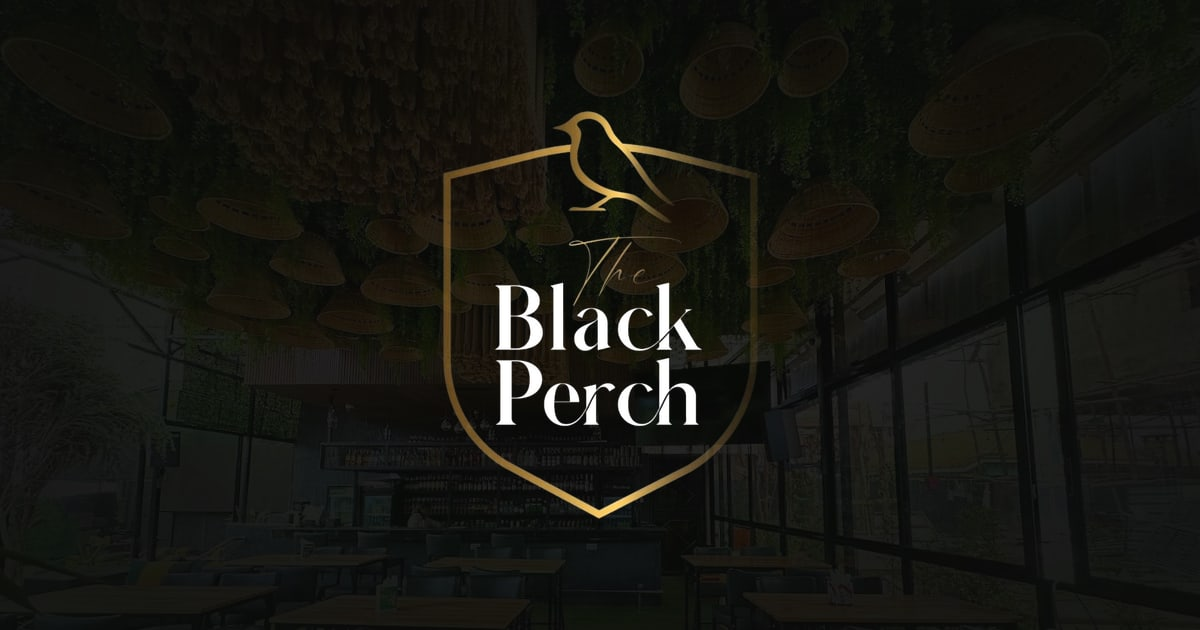
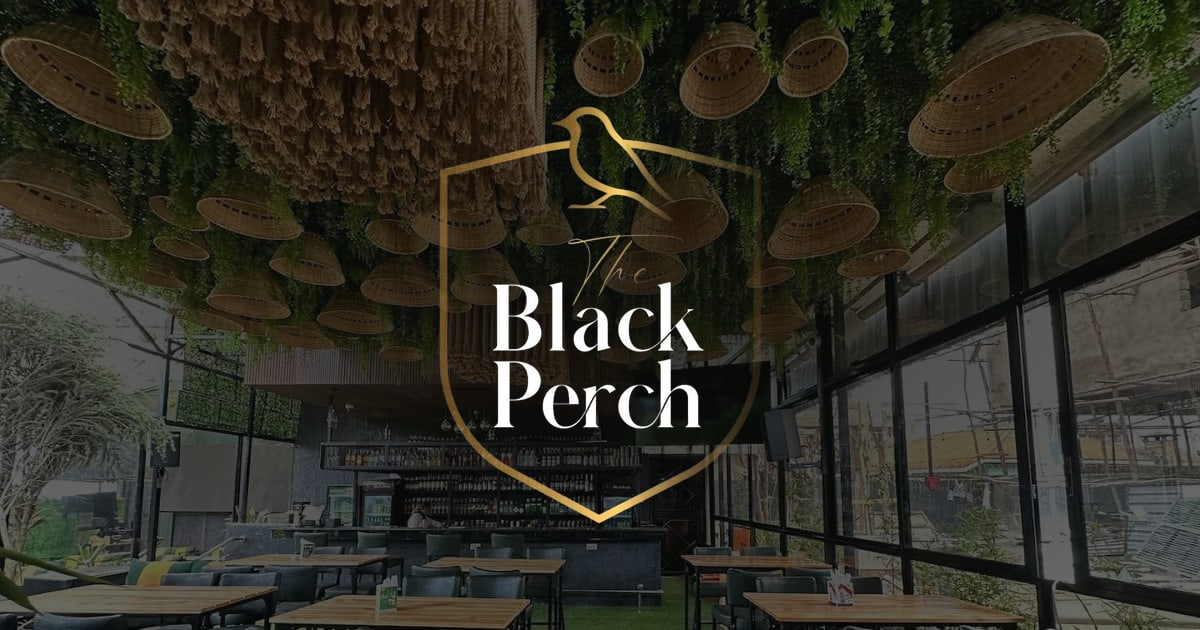
fix: make navigation work from any route; refresh README and OG image
- Section links are now root-relative, so the header and footer work from
  the 404 page instead of pointing at anchors that do not exist there
- The wordmark scrolls to top on the home page and is a client-side Link
  to home elsewhere
- Rewrite the README for the rebuilt site: structure, content editing,
  design tokens, motion system and the stale dev-cache fix
- Brighten the Open Graph card so the room reads behind the crest

diff --git a/components/layout/Navbar.tsx b/components/layout/Navbar.tsx
@@ -2,6 +2,8 @@
 
 import { useEffect, useRef, useState, type CSSProperties } from 'react'
 import Image from 'next/image'
+import Link from 'next/link'
+import { usePathname } from 'next/navigation'
 import mark from '@/public/images/brand/mark.png'
 import { NAV_LINKS, SITE } from '@/lib/site'
 import { lockScroll } from '@/lib/scroll'
@@ -16,6 +18,7 @@ export default function Navbar() {
   const [hidden, setHidden] = useState(false)
   const [open, setOpen] = useState(false)
   const [active, setActive] = useState('')
+  const onHome = usePathname() === '/'
 
   // Solid bar once the page moves; tuck away on the way down, return on the way up.
   useEffect(() => {
@@ -45,14 +48,14 @@ export default function Navbar() {
 
   // Highlight the link for whichever section sits across the middle of the viewport.
   useEffect(() => {
-    const sections = ['#top', ...NAV_LINKS.map((link) => link.href)]
-      .map((hash) => document.querySelector<HTMLElement>(hash))
+    const sections = ['top', ...NAV_LINKS.map((link) => link.id)]
+      .map((id) => document.getElementById(id))
       .filter((el): el is HTMLElement => el !== null)
 
     const observer = new IntersectionObserver(
       (entries) => {
         for (const entry of entries) {
-          if (entry.isIntersecting) setActive(`#${entry.target.id}`)
+          if (entry.isIntersecting) setActive(entry.target.id)
         }
       },
       { rootMargin: '-50% 0px -50% 0px' }
@@ -101,6 +104,15 @@ export default function Navbar() {
     }
   }, [open])
 
+  const wordmark = (
+    <>
+      <Image src={mark} alt="" className="h-6 w-auto md:h-7" />
+      <span className="font-display text-[1.125rem] leading-none tracking-[-0.01em] md:text-[1.25rem]">
+        {SITE.name}
+      </span>
+    </>
+  )
+
   return (
     <div ref={rootRef}>
       <header
@@ -112,28 +124,37 @@ export default function Navbar() {
         )}
       >
         <div className="shell flex h-(--header-h) items-center justify-between gap-6">
-          <a
-            href="#top"
-            onClick={() => setOpen(false)}
-            className="flex min-h-11 items-center gap-3"
-            aria-label={`${SITE.name} — back to top`}
-          >
-            <Image src={mark} alt="" className="h-6 w-auto md:h-7" />
-            <span className="font-display text-[1.125rem] leading-none tracking-[-0.01em] md:text-[1.25rem]">
-              {SITE.name}
-            </span>
-          </a>
+          {/* On the home page the wordmark scrolls to the top; elsewhere it leads home. */}
+          {onHome ? (
+            <a
+              href="#top"
+              onClick={() => setOpen(false)}
+              className="flex min-h-11 items-center gap-3"
+              aria-label={`${SITE.name} — back to top`}
+            >
+              {wordmark}
+            </a>
+          ) : (
+            <Link
+              href="/"
+              onClick={() => setOpen(false)}
+              className="flex min-h-11 items-center gap-3"
+              aria-label={`${SITE.name} — home`}
+            >
+              {wordmark}
+            </Link>
+          )}
 
           <nav aria-label="Primary" className="hidden lg:block">
             <ul className="flex items-center gap-10">
               {NAV_LINKS.map((link) => (
-                <li key={link.href}>
+                <li key={link.id}>
                   <a
                     href={link.href}
-                    aria-current={active === link.href ? 'true' : undefined}
+                    aria-current={active === link.id ? 'true' : undefined}
                     className={cn(
                       'inline-flex min-h-11 items-center text-[0.8125rem] tracking-[0.04em] transition-colors duration-300',
-                      active === link.href ? 'text-bone' : 'text-bone/70 hover:text-bone'
+                      active === link.id ? 'text-bone' : 'text-bone/70 hover:text-bone'
                     )}
                   >
                     <span className="link-line">{link.label}</span>
@@ -201,7 +222,7 @@ export default function Navbar() {
         <nav aria-label="Mobile" className="shell flex flex-1 flex-col justify-center py-10">
           <ul>
             {NAV_LINKS.map((link, index) => (
-              <li key={link.href} className="overflow-clip border-b border-bone/10">
+              <li key={link.id} className="overflow-clip border-b border-bone/10">
                 <a
                   href={link.href}
                   onClick={() => setOpen(false)}
@@ -209,7 +230,7 @@ export default function Navbar() {
                   className={cn(
                     'block py-4 font-display text-[clamp(2.25rem,11vw,3.5rem)] leading-[1.1] tracking-[-0.02em] transition-transform duration-700 ease-out-expo',
                     open ? 'translate-y-0 delay-[calc(var(--i)*70ms+180ms)]' : 'translate-y-full',
-                    active === link.href && 'italic text-brass'
+                    active === link.id && 'italic text-brass'
                   )}
                 >
                   {link.label}

diff --git a/lib/site.ts b/lib/site.ts
@@ -36,9 +36,11 @@ export const SITE = {
   ],
 } as const
 
+// Sections of the home page. Links are root-relative so they also work
+// from any other route (the 404 page, for one).
 export const NAV_LINKS = [
-  { label: 'The Space', href: '#space' },
-  { label: 'Menu', href: '#menu' },
-  { label: 'Story', href: '#story' },
-  { label: 'Visit', href: '#visit' },
+  { label: 'The Space', id: 'space', href: '/#space' },
+  { label: 'Menu', id: 'menu', href: '/#menu' },
+  { label: 'Story', id: 'story', href: '/#story' },
+  { label: 'Visit', id: 'visit', href: '/#visit' },
 ] as const

diff --git a/components/layout/Footer.tsx b/components/layout/Footer.tsx
@@ -31,7 +31,7 @@ export default function Footer() {
             <h2 className="eyebrow text-bone/60">Explore</h2>
             <ul className="mt-3">
               {NAV_LINKS.map((link) => (
-                <li key={link.href}>
+                <li key={link.id}>
                   <a
                     href={link.href}
                     className="inline-flex min-h-11 items-center text-bone/85 hover:text-bone"

diff --git a/README.md b/README.md
@@ -1,77 +1,109 @@
 # The Black Perch
 
-A premium lifestyle hub website for **The Black Perch** — a nightclub/lounge, artisan cafe, spa & wellness, ice cream parlor, and auto care/detailing venue in Milimani, Meru, Kenya. Built as a single-page, scroll-driven, cinematic experience.
-
-Developed under the Forge Eleven portfolio brand, adapted from an original Forge Eleven template.
-
-## Getting Started
-
-```bash
-npm run dev
-```
-
-Open [http://localhost:3000](http://localhost:3000) to view it locally. The page auto-updates as you edit files inside `app/` and `components/`.
-
-## Stack
-
-- **Next.js** — framework
-- **TypeScript**
-- **Tailwind CSS** — utility styling (note: some `gap-*` utilities are unreliable in this pipeline; inline styles are used instead in places)
-- **GSAP + ScrollTrigger** — scroll-driven animation
-- **Lenis** — smooth scrolling
-- **Framer Motion** — component-level motion (menu filter transitions)
-- **Resend** — contact form email delivery
-
-## Design System
-
-| Token | Value |
-|---|---|
-| Charcoal (background) | `#080808` |
-| Cream (text) | `#f0ede6` |
-| Gold (accent) | `#c9a96e` |
-| Heading font | Cormorant Garamond |
-| Body font | DM Sans |
-
-## Site Structure
-
-Single-page scroll with anchor-based navigation (not multi-route). Current build order:
-
-1. Hero (`id="home"`)
-2. Marquee
-3. Featured Menu (`id="menu"`)
-4. Our Story / About (`id="story"`)
-5. Reservations / Contact (`id="reserve"`)
-
-
-## Image Assets
-
-Images are intentionally deferred — real photography is dropped into `public/images/` once available. Each image slot renders a labeled dashed-border placeholder behind the `<img>` tag, so a missing file never shows as a blank space; it falls back to the placeholder automatically via `onError`.
-
-Current folders:
-
-- `public/images/menu/` — dish photography (see `data/menu.ts` for expected filenames)
-- `public/images/experience/` — "Our Story" mosaic photography
-- `public/images/reservation/` — reservation section photography
-
-## Environment Variables
-
-Set `RESEND_API_KEY` in your deployment environment (Vercel dashboard → Settings → Environment Variables). Never commit this to `.env.local` or push it to the repo.
-
-## Deploy on Vercel
-
-Connect this GitHub repo, add the `RESEND_API_KEY` environment variable in the dashboard, and deploy.
+Website for **The Black Perch** — a restaurant, lounge, café and spa on Milimani Road, Meru, Kenya. A single-page, scroll-led site built with Next.js.
 
 - **Repo:** `github.com/ndereba2business-glitch/black-pearch`
 - **Live:** `the-black-pearch-one.vercel.app`
 
-## Development Notes
+## Getting started
 
-- Full-file replacements preferred over partial edits to avoid regressions.
-- Run `tsc --noEmit` and `eslint` before committing.
-- Preserve existing atmosphere layers (custom cursor, ambient particles, fog, grain overlay) — don't remove without explicit instruction.
-- One commit per completed section/feature, following Conventional Commits.
+```bash
+npm install
+npm run dev        # http://localhost:3000
+```
 
-## Learn More
+| Script | What it does |
+|---|---|
+| `npm run dev` | Development server (Turbopack) |
+| `npm run build` | Production build |
+| `npm run start` | Serve the production build |
+| `npm run lint` | ESLint |
+| `npm run typecheck` | TypeScript, no emit |
 
-- [Next.js Documentation](https://nextjs.org/docs)
-- [GSAP ScrollTrigger Docs](https://gsap.com/docs/v3/Plugins/ScrollTrigger/)
+Run `lint`, `typecheck` and `build` before pushing.
+
+If the dev server ever reports `Next.js package not found`, the dev cache is stale — delete `.next/dev` and start it again.
+
+## Stack
+
+- **Next.js 16** (App Router, Turbopack) and **React 19**
+- **TypeScript**
+- **Tailwind CSS v4** — configured in CSS (`app/globals.css`), there is no `tailwind.config`
+- **GSAP + ScrollTrigger** — parallax and scroll-linked motion
+- **Lenis** — smooth scrolling and in-page anchor links
+
+## Structure
+
+```
+app/
+  layout.tsx          fonts, metadata, JSON-LD, header/footer shell
+  page.tsx            the section order
+  globals.css         design tokens, base styles, scroll-reveal CSS
+  icon.png, apple-icon.png, opengraph-image.jpg, robots.ts, sitemap.ts
+components/
+  layout/             Navbar, Footer
+  sections/           Hero, Intro, Space, FeaturedMenu, Story, GuestWords, Visit
+  menu/               MenuFilter (tabs), MenuRow
+  motion/             ScrollEffects — all scroll behaviour, mounted once
+  ui/                 ButtonLink, Frame, Reveal, RevealHeading, Magnetic, WeaveRule, icons
+data/                 menu, gallery and testimonial content
+lib/
+  site.ts             business details: address, phone, hours, links, nav
+public/images/        photography and brand marks
+```
+
+Page order: Hero → Intro (`#about`) → The Space (`#space`) → Featured Menu (`#menu`) → Story (`#story`) → Guest Words → Visit (`#visit`) → Footer.
+
+## Editing content
+
+Nothing about the business is hard-coded in components.
+
+| To change | Edit |
+|---|---|
+| Address, phone, hours, WhatsApp, socials, nav links | `lib/site.ts` |
+| Dishes, prices, categories, dietary notes | `data/menu.ts` |
+| Gallery photographs and captions | `data/space.ts` |
+| Guest reviews | `data/testimonials.ts` |
+
+**Photographs** live in `public/images/` and are imported statically, so Next.js generates the dimensions and blur placeholder for you. To add one, drop the file in, import it in the relevant data file and reference the import. A menu item with no `image` is still listed and shows the crest instead.
+
+Keep photographs at 1,600px or more on the long edge where possible. Several current images are smaller than that, and the layouts are sized so none is shown larger than its source — a bigger original lets a picture be used at a bigger size.
+
+## Design system
+
+Tokens are declared in the `@theme` block of `app/globals.css` and become Tailwind utilities (`bg-ink`, `text-brass`, `text-display-lg`, …).
+
+| Token | Value | Use |
+|---|---|---|
+| `ink` | `#0b0d0b` | Page background |
+| `moss` | `#18241c` | Guest-words band, image placeholders |
+| `bone` | `#efe9dd` | Text on dark |
+| `paper` | `#ebe4d5` | Menu section background |
+| `brass` | `#c6a467` | Accent on dark |
+| `brass-deep` | `#7a5a20` | Accent on paper (meets AA contrast) |
+| Display type | Bodoni Moda | Headings, dish names, prices |
+| Body type | Instrument Sans | Everything else |
+
+Corners are square throughout; there are no drop shadows.
+
+## Motion
+
+All scroll behaviour is in `components/motion/ScrollEffects.tsx` and is driven by data attributes, so sections stay server components:
+
+- `data-reveal="up | fade | mask | lines"` — entrance when scrolled into view. Use the `Reveal`, `RevealHeading` and `Frame` components rather than writing the attribute by hand.
+- `data-parallax` — slow drift of a picture inside its frame.
+- `data-drift="<px>"` — whole-element drift on wide screens.
+
+Reveal styles only hide content once an inline script has confirmed JavaScript is running, so the page is fully readable without it. Under `prefers-reduced-motion`, smooth scrolling and parallax are off and reveals resolve instantly.
+
+## Environment variables
+
+None are required.
+
+| Variable | Purpose |
+|---|---|
+| `NEXT_PUBLIC_SITE_URL` | Canonical origin used for metadata, sitemap and structured data. Defaults to the Vercel URL above — set it when a custom domain goes live. |
+
+## Deploying
+
+Hosted on Vercel from this repository. No build configuration is needed beyond the defaults.
